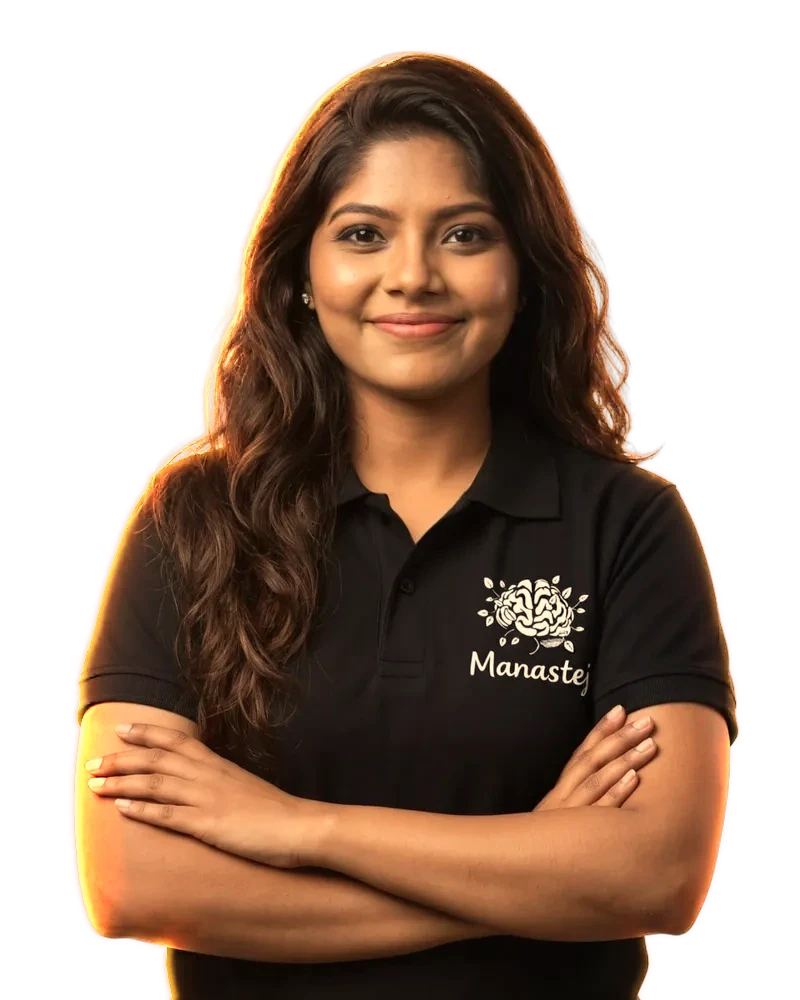
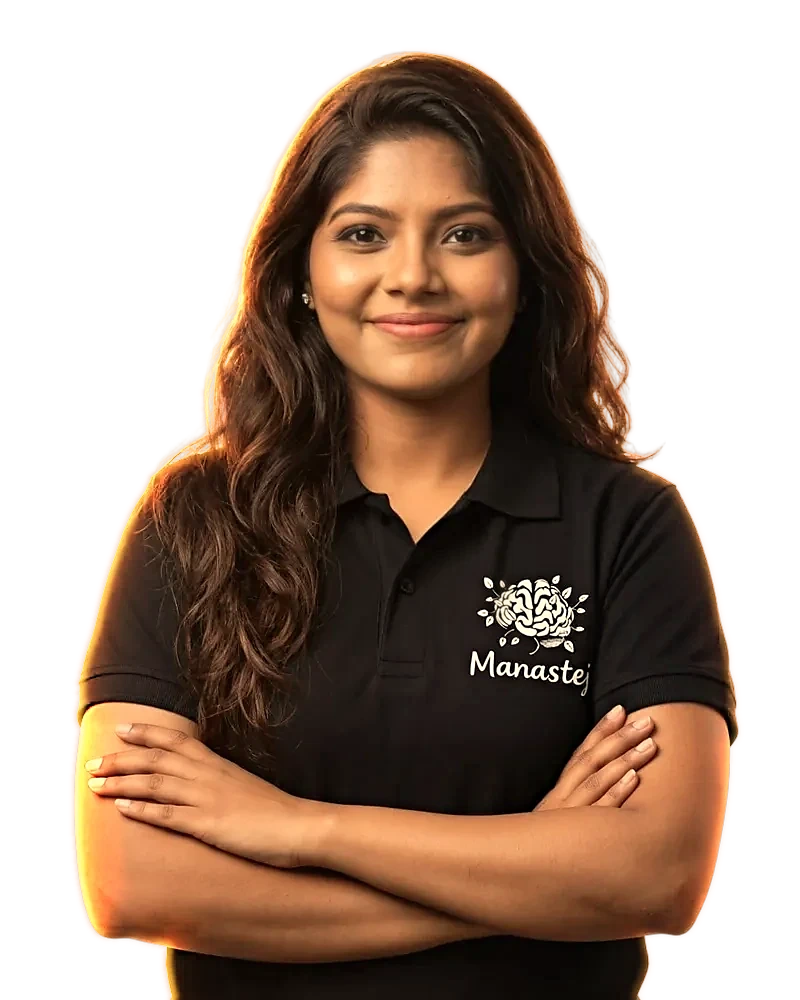
style(team): subtle texture sharpen on all four portraits (RGB only, alpha untouched)

Changed region(s): [[0.5938, 0.558, 0.75, 0.682]]

diff --git a/scripts/team-sharpen.py b/scripts/team-sharpen.py
@@ -1,0 +1,28 @@
+"""Subtle texture sharpen for team portraits (RGB only, alpha untouched)."""
+import sys, numpy as np, cv2
+from PIL import Image
+P=dict(radius=1.2, amount=0.6, threshold=4/255,   # unsharp mask
+       clarity_sigma=6.0, clarity=0.25,           # local contrast on dark shirt/hair
+       face_protect=0.6, edge_erode=3)
+def run(path,p=P):
+    im=np.array(Image.open(path).convert('RGBA')).astype(np.float32)/255
+    rgb,A=im[...,:3],im[...,3]; H,W=A.shape
+    # interior mask: skip semi-transparent cutout edge so no halos appear there
+    inner=cv2.erode((A>0.98).astype(np.uint8),np.ones((3,3)),iterations=p['edge_erode']).astype(np.float32)
+    inner=cv2.GaussianBlur(inner,(0,0),1.5)
+    # face/neck skin protection (upper 45%)
+    hsv=cv2.cvtColor((rgb*255).astype(np.uint8),cv2.COLOR_RGB2HSV).astype(np.float32)
+    skin=((hsv[...,0]<25)&(hsv[...,1]>40)&(hsv[...,2]>70)).astype(np.float32); skin[int(H*0.45):]=0
+    skin=cv2.GaussianBlur(skin,(0,0),8); prot=1-p['face_protect']*np.clip(skin*1.5,0,1)
+    # unsharp mask with threshold (soft knee)
+    bl=cv2.GaussianBlur(rgb,(0,0),p['radius']); det=rgb-bl
+    mag=np.abs(det).max(2,keepdims=True); knee=np.clip((mag-p['threshold'])/p['threshold'],0,1)
+    out=rgb+p['amount']*det*knee*(inner*prot)[...,None]
+    # clarity on dark regions (shirt, hair), not skin
+    lum=out.mean(2); dark=np.clip((0.42-lum)/0.2,0,1)*(1-np.clip(skin*1.5,0,1))
+    dark=cv2.GaussianBlur(dark,(0,0),3)*inner
+    bl2=cv2.GaussianBlur(out,(0,0),p['clarity_sigma'])
+    out=out+p['clarity']*(out-bl2)*dark[...,None]
+    out=np.clip(out,0,1)
+    Image.fromarray((np.dstack([out,A])*255+0.5).astype(np.uint8),'RGBA').save(path,'WEBP',quality=92,method=6)
+for f in sys.argv[1:]: run(f); print('sharpened',f)
